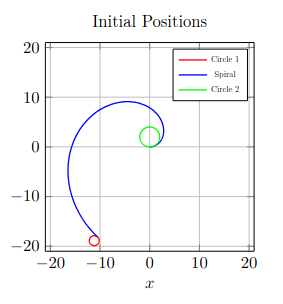
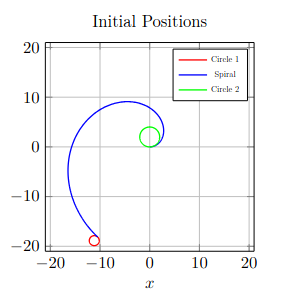
Added side by side images

diff --git a/mc/dc_web/dcapp_html.html b/mc/dc_web/dcapp_html.html
@@ -172,12 +172,12 @@ points)</p></li>
 </ul>
 <p>
 <figure id="fig:enter-label">
-<p><img src="graph1.png" alt="image" style="width:250px" /> <span id="fig:enter-label"
+<p><img src="graph1.png" alt="image" style="height:250px; float: left;" /> <span id="fig:enter-label"
 label="fig:enter-label"></span></p>
-<p><img src="graph2.png" alt="image" style="width:250px" /> <span id="fig:enter-label"
+<p><img src="graph2.png" alt="image" style="height:250px; float: left;" /> <span id="fig:enter-label"
 label="fig:enter-label"></span></p>
 </figure>
-<br />
+<span style="content: ''; clear: both; display: table;" />
 </p></li>
 </ol>
 <h1 id="linear-algebruh"><span style="color:MediumSeaGreen;"> §3 </span>  Linear Algebruh</h1>
